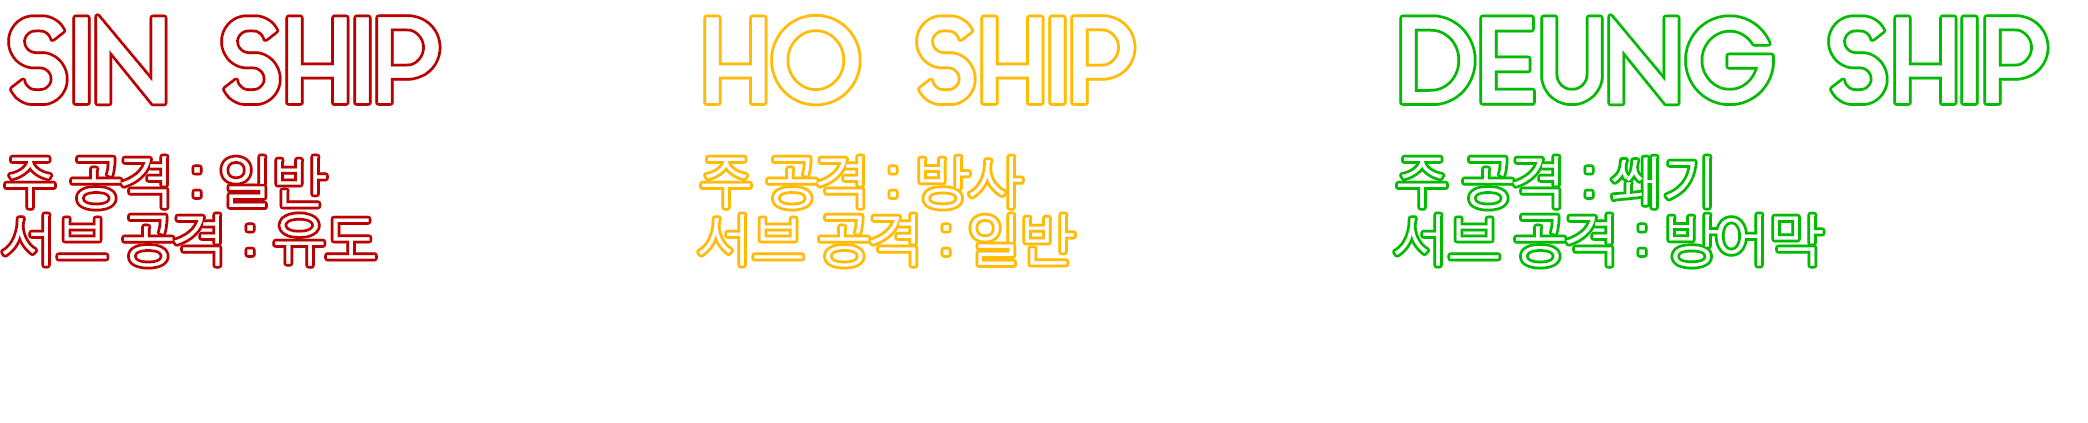
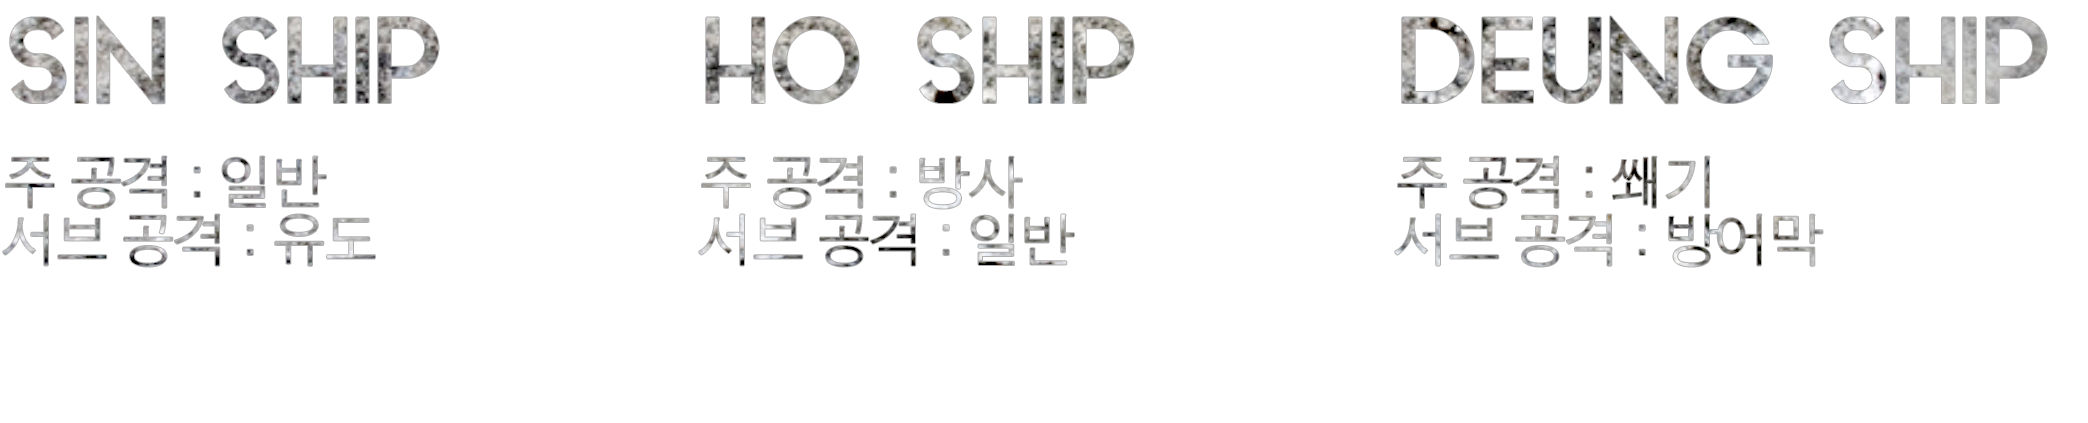
PIET-30 완료, 중재자랑 연결하면 됨

diff --git a/Invasion2/Assets/Script/UI/CharacterSelectSceneCtrl.cs b/Invasion2/Assets/Script/UI/CharacterSelectSceneCtrl.cs
@@ -18,8 +18,62 @@ public class CharacterSelectSceneCtrl : MonoBehaviour
     [SerializeField]
     ScrollRect scrollRect;
 
+    [SerializeField]
+    Image DescriptionImage;
+
     private void Update()
     {
-        
+        ChangeDescriptionImage();
+        ChangeHorizontalNormalizedPosition();
+    }
+
+    void ChangeDescriptionImage()
+    {
+        if (scrollRect.horizontalNormalizedPosition <= 0.33f)
+        {
+            DescriptionImage.sprite = DescriptionImage_Red;
+        }
+        if (0.33f < scrollRect.horizontalNormalizedPosition
+            && scrollRect.horizontalNormalizedPosition <= 0.67f)
+        {
+            DescriptionImage.sprite = DescriptionImage_Orange;
+        }
+        if (0.67f < scrollRect.horizontalNormalizedPosition
+            && scrollRect.horizontalNormalizedPosition <= 1f)
+        {
+            DescriptionImage.sprite = DescriptionImage_Green;
+        }
+    }
+
+    void ChangeHorizontalNormalizedPosition()
+    {
+        if (0f <= scrollRect.horizontalNormalizedPosition
+            && scrollRect.horizontalNormalizedPosition < 0.05f)
+        {
+            scrollRect.horizontalNormalizedPosition = 0f;
+            return;
+        }
+        if (0.48f < scrollRect.horizontalNormalizedPosition
+            && scrollRect.horizontalNormalizedPosition < 0.52f)
+        {
+            scrollRect.horizontalNormalizedPosition = 0.5f;
+            return;
+        }
+        if (0.95f < scrollRect.horizontalNormalizedPosition
+            && scrollRect.horizontalNormalizedPosition <= 1f)
+        {
+            scrollRect.horizontalNormalizedPosition = 1f;
+            return;
+        }
+    }
+
+    void OnClickStoreButton()
+    {
+
+    }
+
+    void OnClickBattleStartButton()
+    {
+
     }
 }
